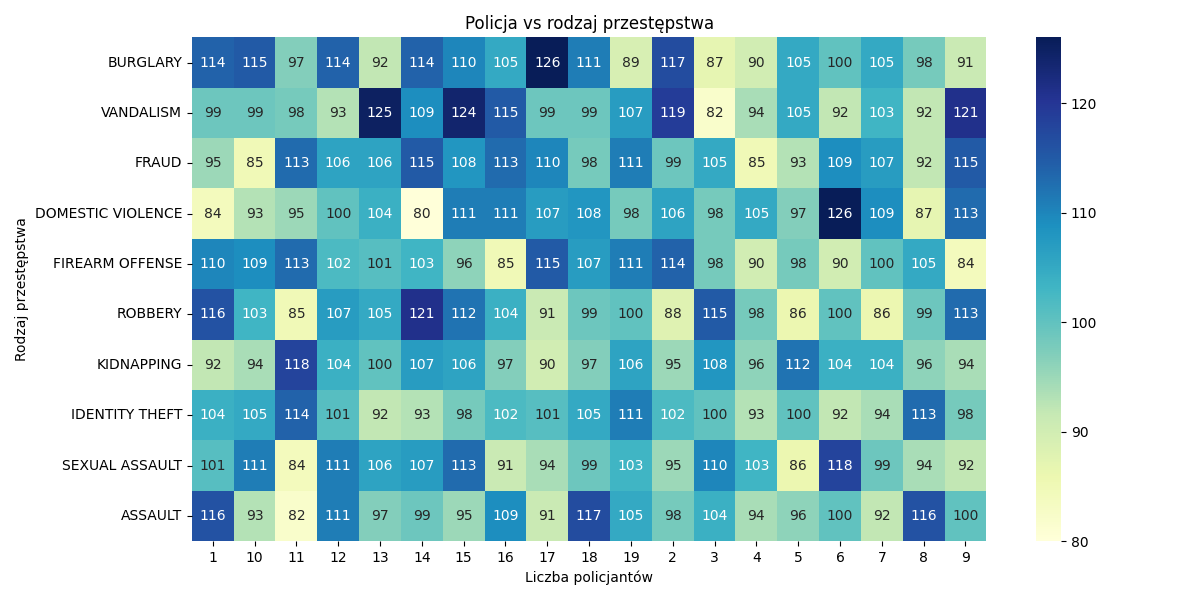
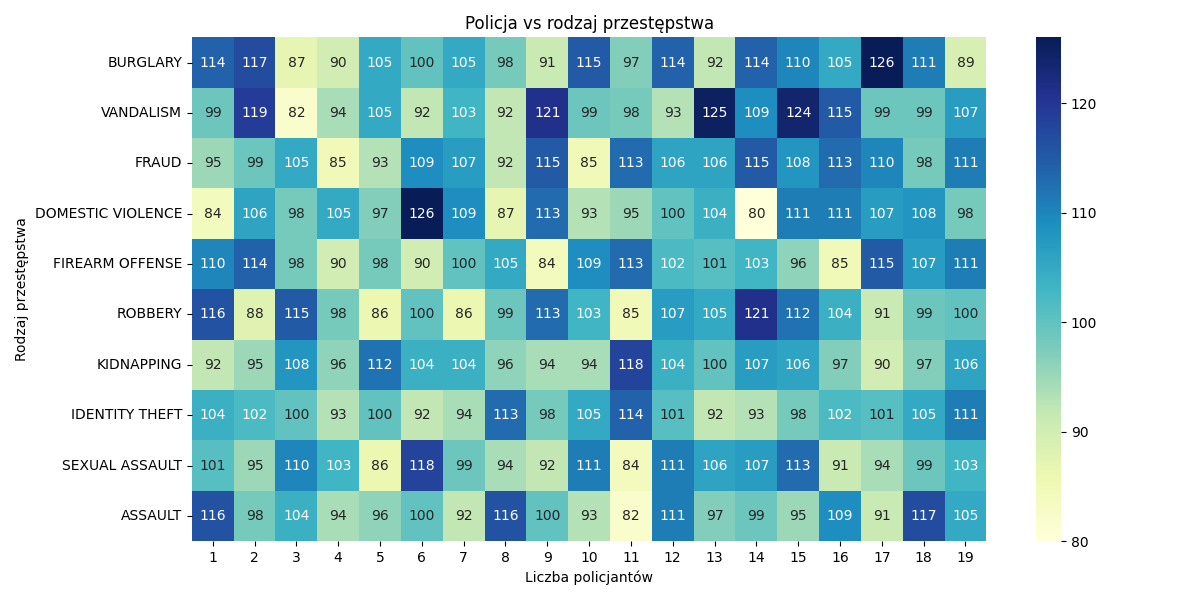
last_update

diff --git a/kod.py b/kod.py
@@ -1,4 +1,3 @@
-# Import
 import pandas as pd
 import matplotlib.pyplot as plt
 import seaborn as sns
@@ -40,9 +39,13 @@ plt.ylabel('Rodzaj przestępstwa')
 plt.tight_layout()
 plt.show()
 
+
 # Heatmapa: rodzaj przestępstwa vs policja
 ct = pd.crosstab(df['Crime Description'], df['Police Deployed'])
 heat = ct.loc[top_crimes['Typ']]
+
+# Sortowanie kolumn rosnąco
+heat = heat[sorted(heat.columns, key=lambda x: int(x))]
 
 plt.figure(figsize=(12, 6))
 sns.heatmap(heat, annot=True, fmt="d", cmap="YlGnBu")
@@ -138,7 +141,7 @@ plt.show()
 # Stosunek mężczyźni vs kobiety dla każdego przestępstwa
 pivot_gender = pd.crosstab(df['Crime Description'], df['Victim Gender'])
 pivot_gender = pivot_gender.loc[top_crimes['Typ']]
-pivot_gender.plot(kind='barh', stacked=True, figsize=(10, 6), colormap='Pastel1')
+pivot_gender.plot(kind='barh', stacked=True, figsize=(10, 6), colormap='Set2')
 plt.title('Płeć ofiar wg rodzaju przestępstwa')
 plt.xlabel('Liczba ofiar')
 plt.ylabel('Rodzaj przestępstwa')
